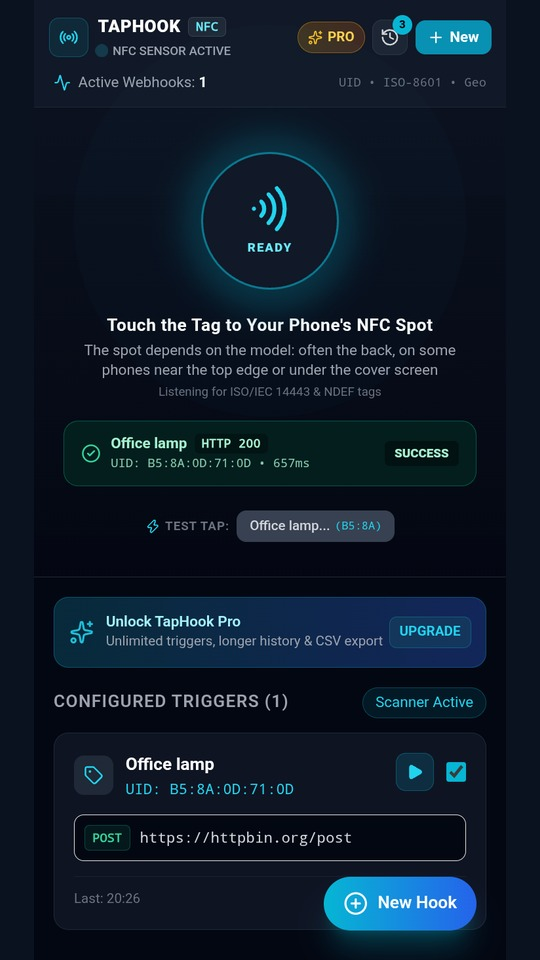
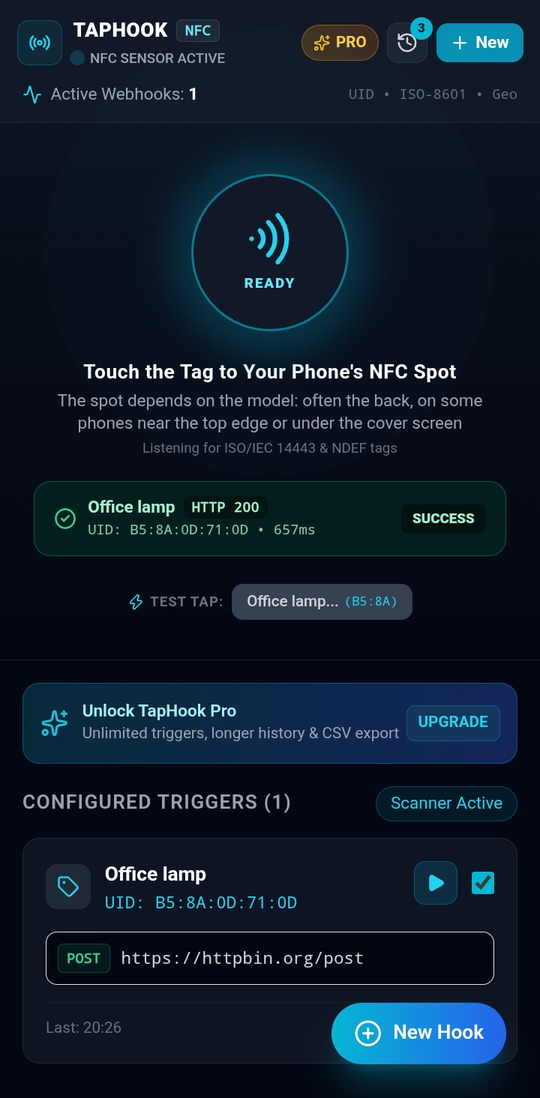
fix(site): add height:auto on screenshot images and use full-bleed 1.2.0 TapHook shots

diff --git a/taphook.html b/taphook.html
@@ -35,9 +35,9 @@ h1{font-size:clamp(26px,5vw,40px);line-height:1.15;margin:8px 0 14px}
 .btn{display:inline-block;padding:12px 20px;border-radius:10px;font-weight:700;text-decoration:none}
 .btn-primary{background:var(--accent);color:#04121c}
 .btn-ghost{border:1px solid var(--border);color:var(--text)}
-.hero-shot img{width:100%;max-width:300px;border-radius:18px;border:1px solid var(--border);display:block;margin:0 auto}
+.hero-shot img{width:100%;max-width:280px;height:auto;border-radius:18px;border:1px solid var(--border);display:block;margin:0 auto}
 .shots{display:flex;gap:12px;overflow-x:auto;padding:8px 0 4px;scroll-snap-type:x mandatory}
-.shots img{flex:0 0 auto;width:200px;border-radius:14px;border:1px solid var(--border);scroll-snap-align:start}
+.shots img{flex:0 0 auto;width:200px;height:auto;border-radius:14px;border:1px solid var(--border);scroll-snap-align:start}
 section{margin-top:36px}
 h2{font-size:22px;margin-bottom:12px}
 .grid{display:grid;grid-template-columns:1fr;gap:16px}
@@ -71,12 +71,12 @@ footer a{margin:0 8px}
         <a class="btn btn-ghost" href="#features">See features</a>
       </div>
     </div>
-    <div class="hero-shot"><img src="shots/taphook/1.jpg" alt="TapHook main screen" width="540" height="960"></div>
+    <div class="hero-shot"><img src="shots/taphook/1.jpg" alt="TapHook main screen" width="540" height="1098"></div>
   </div>
   <div class="shots" aria-label="More screenshots">
-<img src="shots/taphook/2.jpg" alt="TapHook app screen 2" width="540" height="960" loading="lazy">
-<img src="shots/taphook/3.jpg" alt="TapHook app screen 3" width="540" height="960" loading="lazy">
-<img src="shots/taphook/4.jpg" alt="TapHook app screen 4" width="540" height="960" loading="lazy">
+<img src="shots/taphook/2.jpg" alt="TapHook add trigger modal" width="540" height="1098" loading="lazy">
+<img src="shots/taphook/3.jpg" alt="TapHook webhook execution log" width="540" height="1098" loading="lazy">
+<img src="shots/taphook/4.jpg" alt="TapHook Pro modal" width="540" height="1098" loading="lazy">
   </div>
   <section id="features">
     <h2>What it does</h2>

diff --git a/fleetdvir.html b/fleetdvir.html
@@ -35,9 +35,9 @@ h1{font-size:clamp(26px,5vw,40px);line-height:1.15;margin:8px 0 14px}
 .btn{display:inline-block;padding:12px 20px;border-radius:10px;font-weight:700;text-decoration:none}
 .btn-primary{background:var(--accent);color:#04121c}
 .btn-ghost{border:1px solid var(--border);color:var(--text)}
-.hero-shot img{width:100%;max-width:300px;border-radius:18px;border:1px solid var(--border);display:block;margin:0 auto}
+.hero-shot img{width:100%;max-width:300px;height:auto;border-radius:18px;border:1px solid var(--border);display:block;margin:0 auto}
 .shots{display:flex;gap:12px;overflow-x:auto;padding:8px 0 4px;scroll-snap-type:x mandatory}
-.shots img{flex:0 0 auto;width:200px;border-radius:14px;border:1px solid var(--border);scroll-snap-align:start}
+.shots img{flex:0 0 auto;width:200px;height:auto;border-radius:14px;border:1px solid var(--border);scroll-snap-align:start}
 section{margin-top:36px}
 h2{font-size:22px;margin-bottom:12px}
 .grid{display:grid;grid-template-columns:1fr;gap:16px}

diff --git a/jobproof.html b/jobproof.html
@@ -35,9 +35,9 @@ h1{font-size:clamp(26px,5vw,40px);line-height:1.15;margin:8px 0 14px}
 .btn{display:inline-block;padding:12px 20px;border-radius:10px;font-weight:700;text-decoration:none}
 .btn-primary{background:var(--accent);color:#04121c}
 .btn-ghost{border:1px solid var(--border);color:var(--text)}
-.hero-shot img{width:100%;max-width:300px;border-radius:18px;border:1px solid var(--border);display:block;margin:0 auto}
+.hero-shot img{width:100%;max-width:300px;height:auto;border-radius:18px;border:1px solid var(--border);display:block;margin:0 auto}
 .shots{display:flex;gap:12px;overflow-x:auto;padding:8px 0 4px;scroll-snap-type:x mandatory}
-.shots img{flex:0 0 auto;width:200px;border-radius:14px;border:1px solid var(--border);scroll-snap-align:start}
+.shots img{flex:0 0 auto;width:200px;height:auto;border-radius:14px;border:1px solid var(--border);scroll-snap-align:start}
 section{margin-top:36px}
 h2{font-size:22px;margin-bottom:12px}
 .grid{display:grid;grid-template-columns:1fr;gap:16px}
